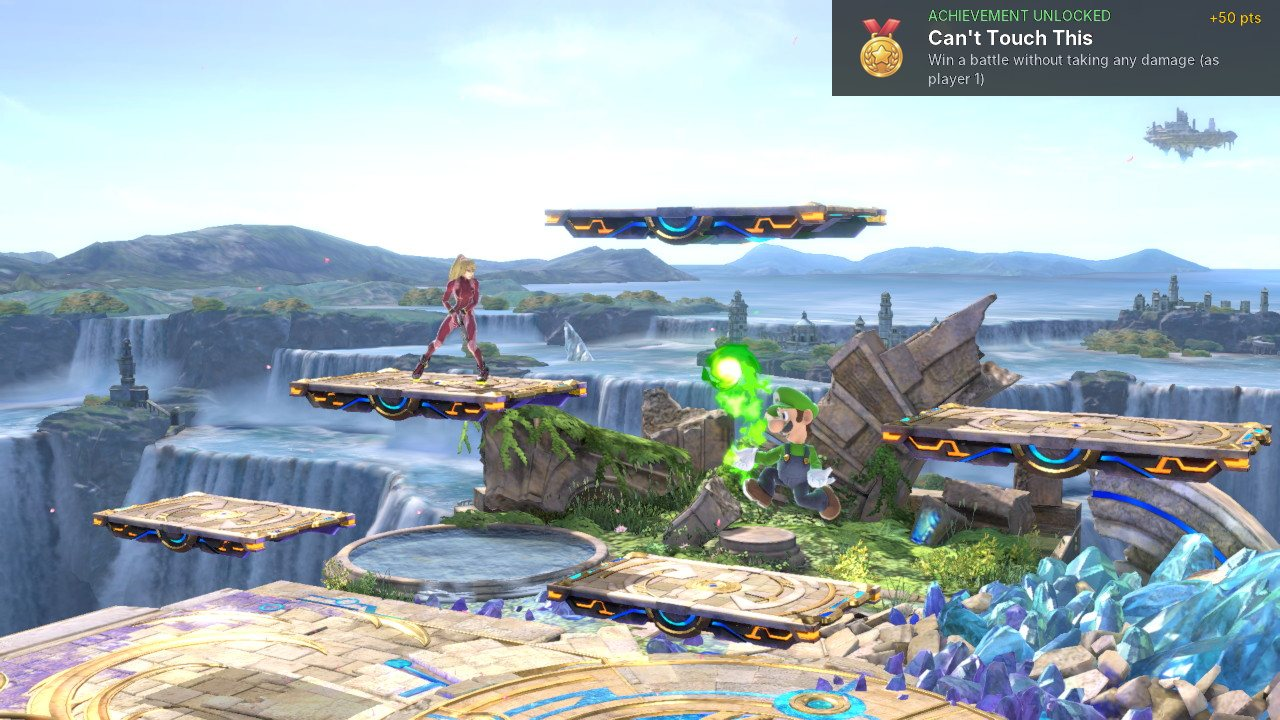
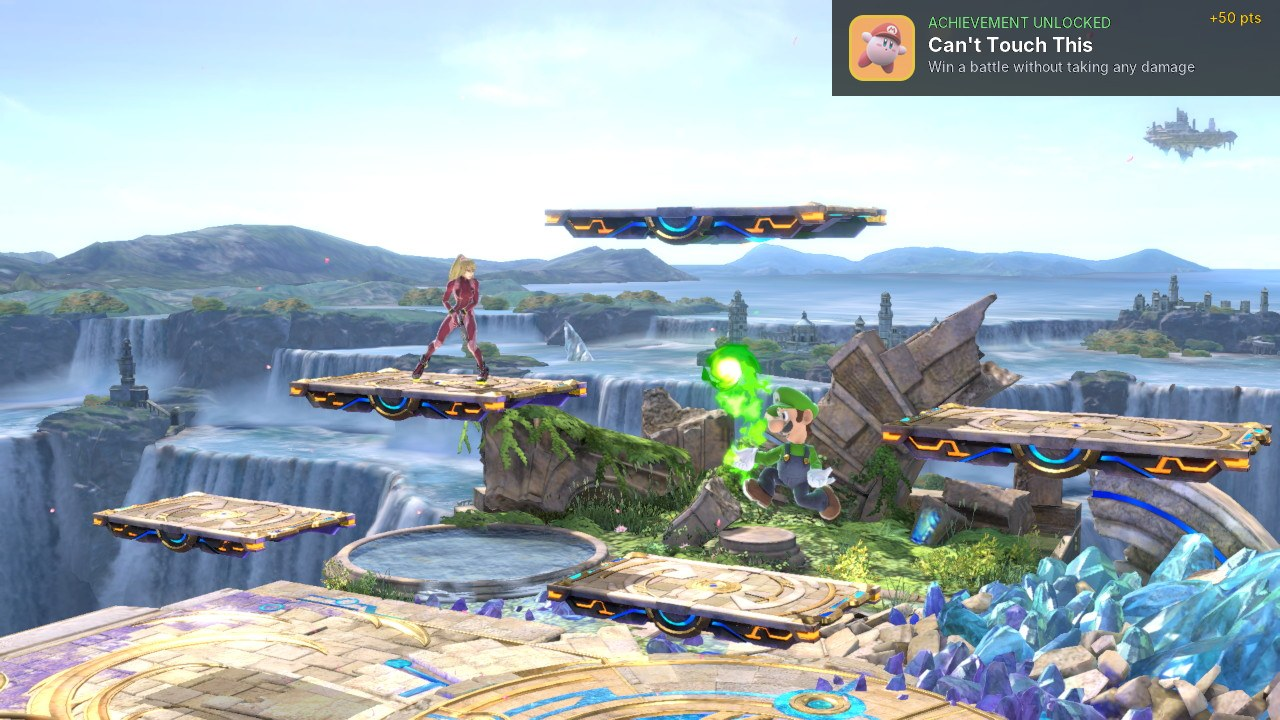
Screenshots: pop-ups now show the achievement picture
Claude-Session: https://claude.ai/code/session_0121ZSWnXmGmYZVQbrJe5Rko

Changed region(s): [[0.6562, 0.0, 0.9688, 0.1222]]

diff --git a/web/index.html b/web/index.html
@@ -22,7 +22,7 @@
   <meta name="twitter:image" content="https://jhondydario.github.io/Greeny/img/compartir.jpg">
   <meta name="theme-color" content="#0b2114">
   <link rel="apple-touch-icon" href="img/icon.png?v=2">
-  <link rel="stylesheet" href="css/style.css?v=96">
+  <link rel="stylesheet" href="css/style.css?v=97">
   <!-- Al cambiar la web, subir el numero de ?v= de abajo para que los navegadores no usen los archivos viejos. -->
 </head>
 <body>
@@ -55,14 +55,14 @@
   <footer class="foot" id="foot"></footer>
 
   <noscript><p class="wrap">Esta página necesita JavaScript.</p></noscript>
-  <script src="vendor/supabase-2.119.0.js?v=96"></script>
-  <script src="js/config.js?v=96"></script>
-  <script src="js/i18n.js?v=96"></script>
-  <script src="js/defs.js?v=96"></script>
-  <script src="js/progress.js?v=96"></script>
-  <script src="js/countries.js?v=96"></script>
-  <script src="js/pages.js?v=96"></script>
-  <script src="js/fx.js?v=96"></script>
-  <script src="js/app.js?v=96"></script>
+  <script src="vendor/supabase-2.119.0.js?v=97"></script>
+  <script src="js/config.js?v=97"></script>
+  <script src="js/i18n.js?v=97"></script>
+  <script src="js/defs.js?v=97"></script>
+  <script src="js/progress.js?v=97"></script>
+  <script src="js/countries.js?v=97"></script>
+  <script src="js/pages.js?v=97"></script>
+  <script src="js/fx.js?v=97"></script>
+  <script src="js/app.js?v=97"></script>
 </body>
 </html>
